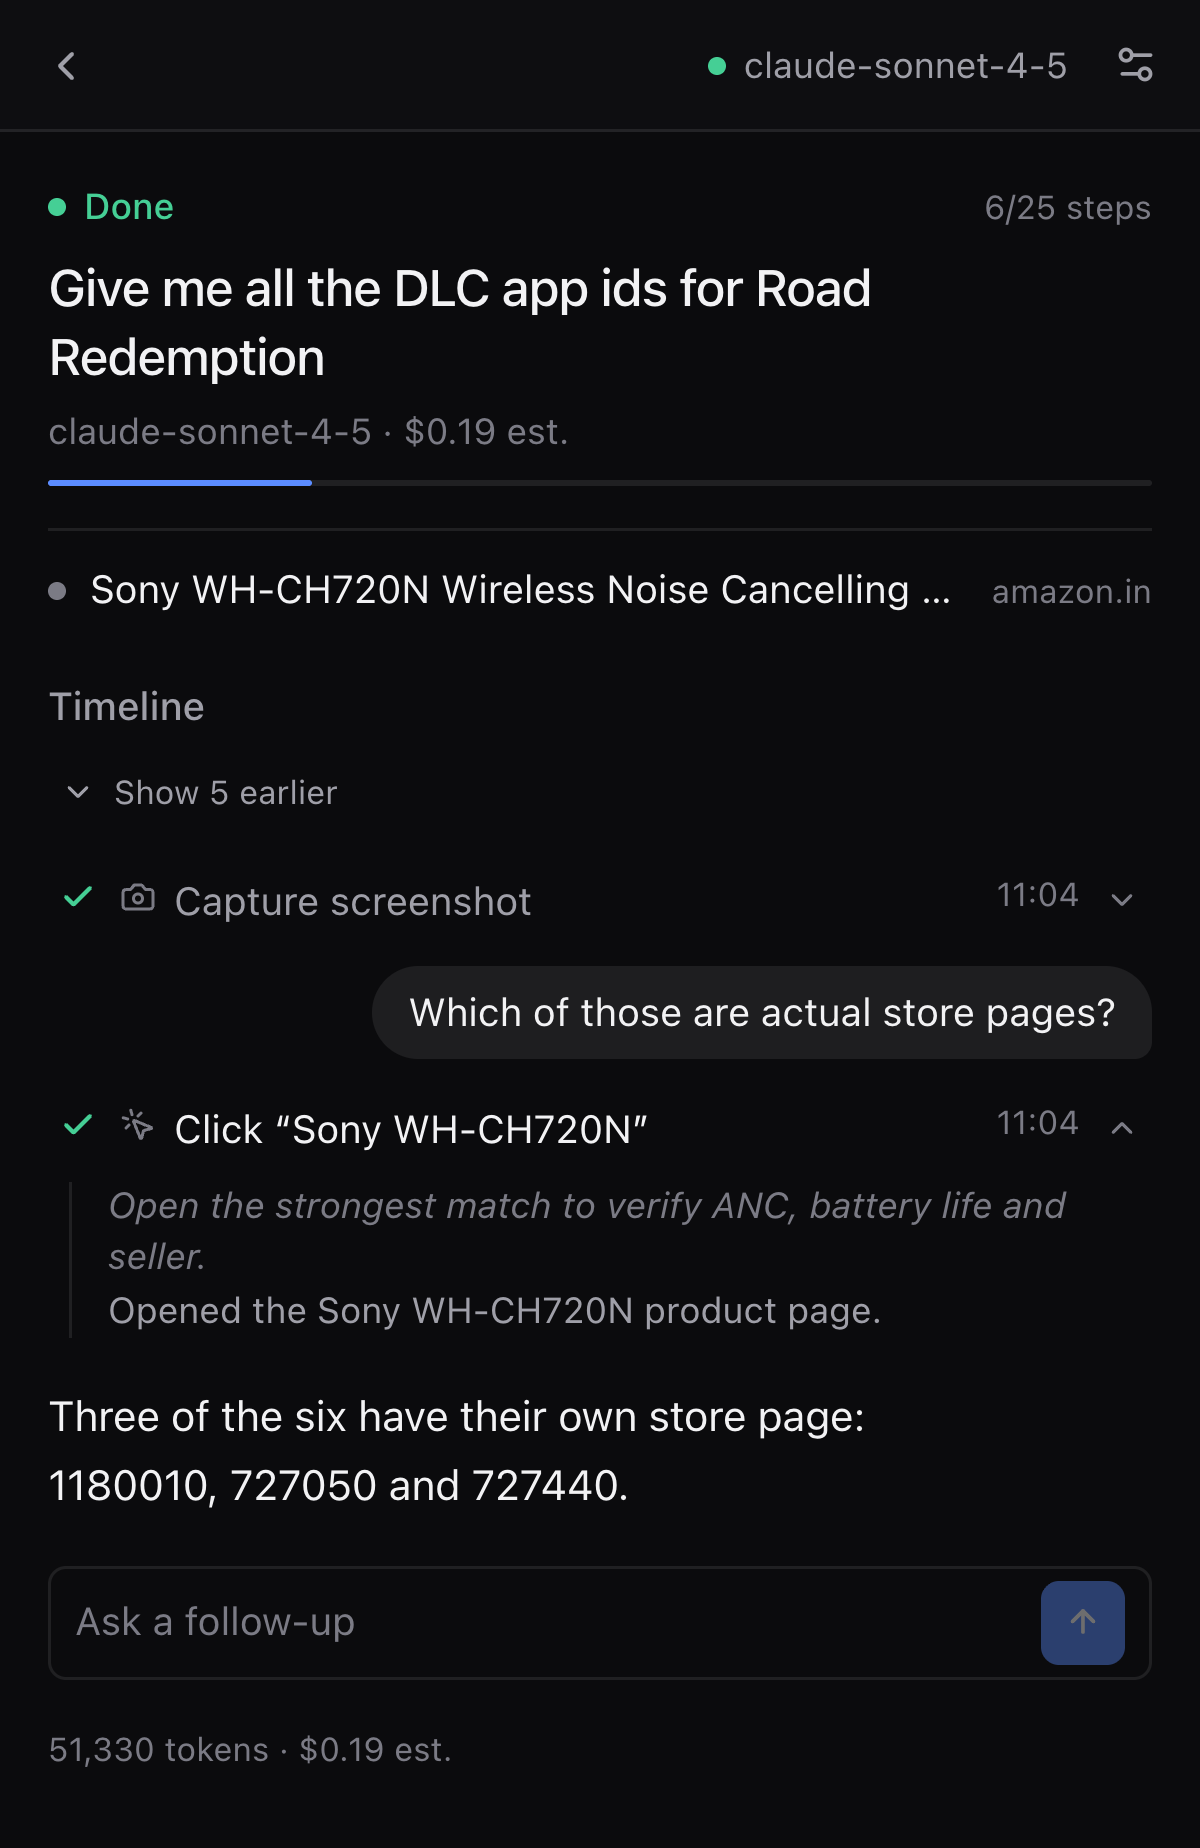
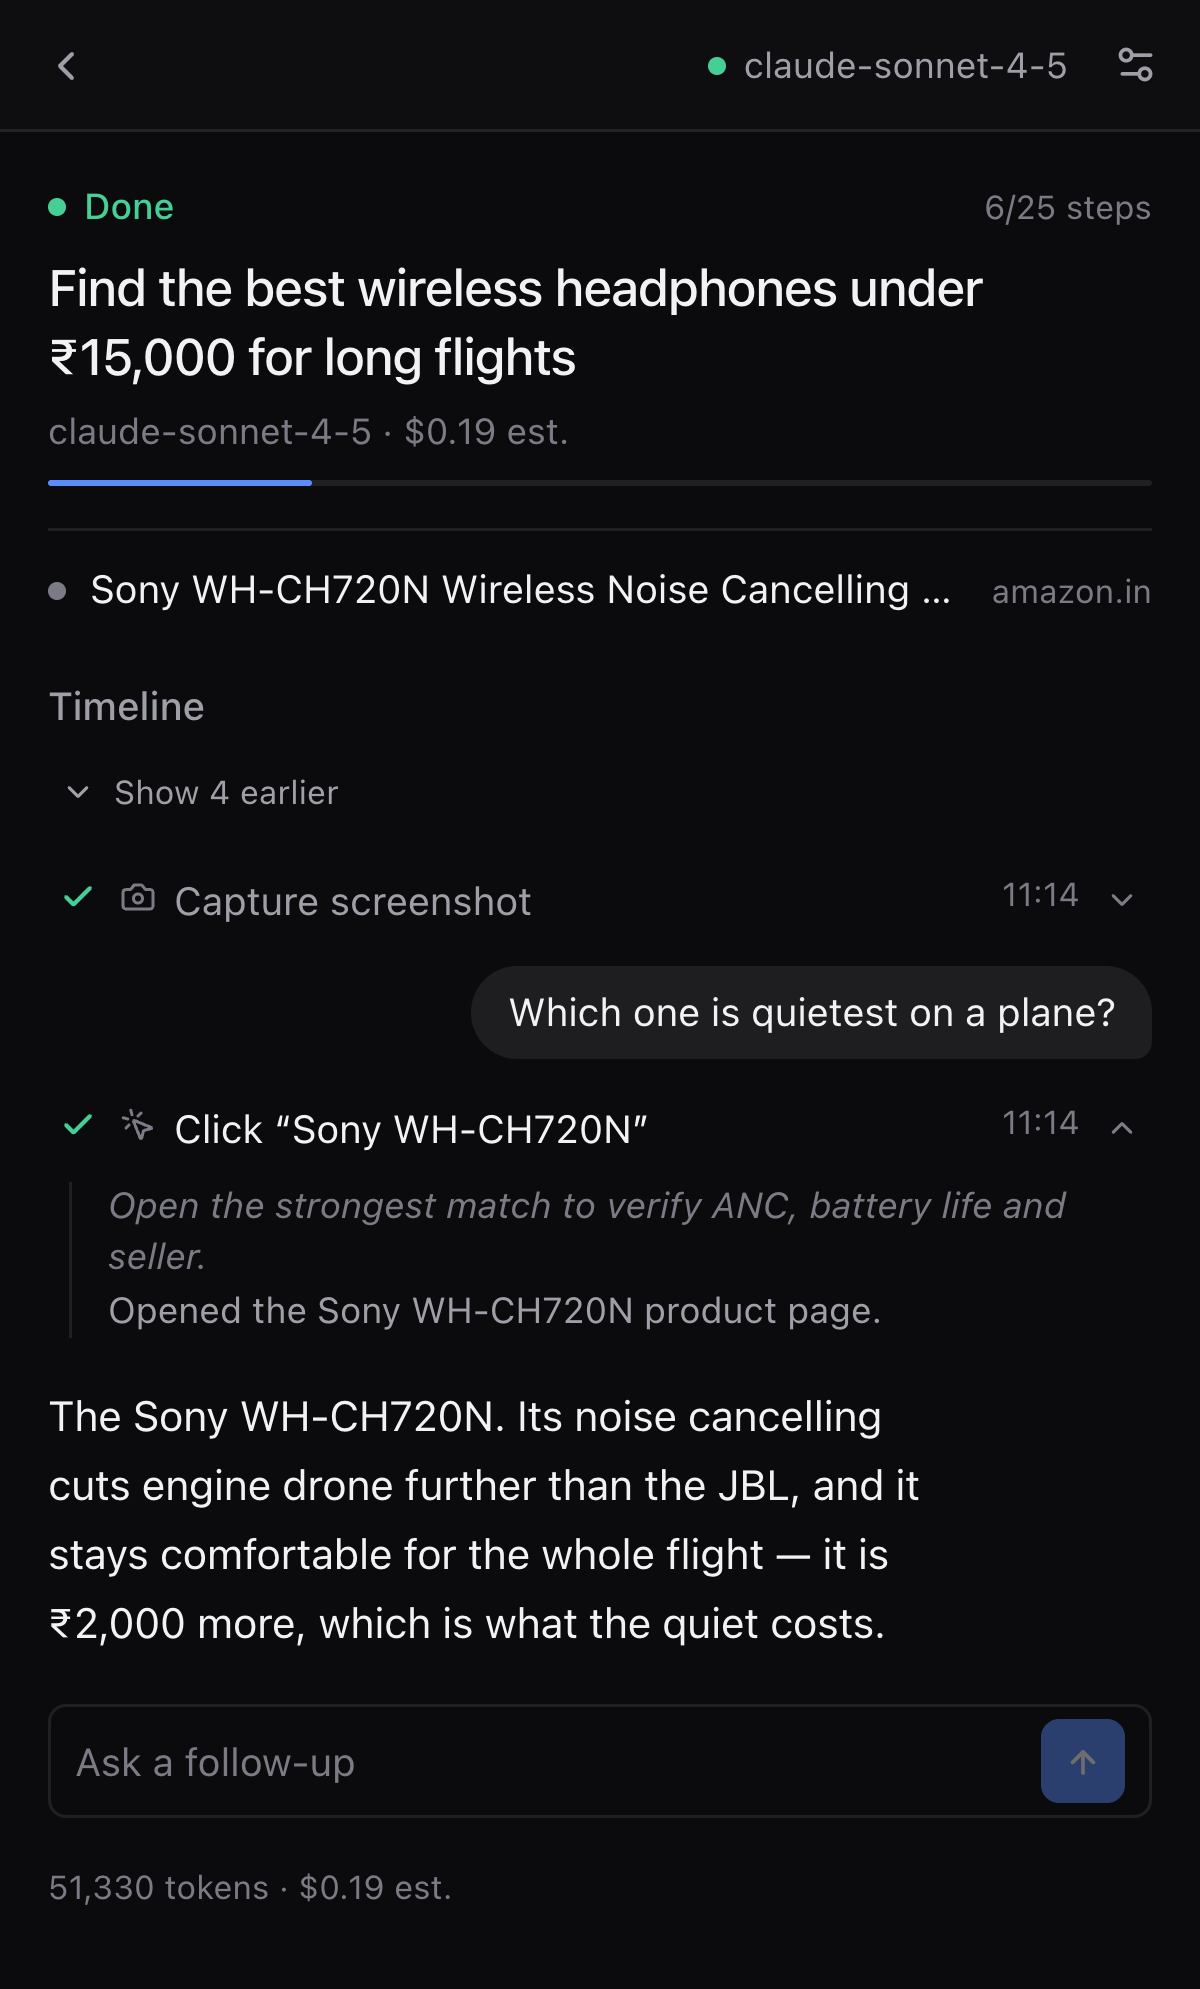
store: one story across the shots, coherent numbers
The six captures came from four unrelated demo runs, so a shot could show a
DLC objective over an Amazon headphone page with reasoning about ANC. They
are now one session: the same task asked, run, inspected, answered, compared
and bought.

Also fixes what made them look careless: the comparison table's prices and
battery hours now agree with the verdict above it and with the chart below,
the history has no failure row, and the approval buys the product the
comparison actually recommends.

diff --git a/preview/main.tsx b/preview/main.tsx
@@ -44,11 +44,12 @@ const history: TaskRecord[] = [
   {
     id: 'r2',
     objective: 'Find 20 remote product manager jobs and compile them',
-    status: 'failed',
-    stepCount: 7,
+    status: 'completed',
+    summary: 'Twenty roles, with links and salaries.',
+    stepCount: 14,
     createdAt: now - 1000 * 60 * 60 * 20,
     completedAt: now - 1000 * 60 * 60 * 19,
-    costUsd: 0.04,
+    costUsd: 0.07,
     provider: 'anthropic',
     model: 'claude-sonnet-4-5',
   },
@@ -220,9 +221,9 @@ if (demo === 'workspace') {
     approval: {
       id: 'a1',
       kind: 'sensitive',
-      title: 'Buy Sony WH-CH720N',
+      title: 'Buy the JBL Tune 770NC',
       detail:
-        'This checkout would place an order for ₹8,990 on Amazon.in using the saved address and payment method.',
+        'This checkout would place an order for ₹6,999 on Amazon.in using the saved address and the card ending 4417.',
       origin: 'https://www.amazon.in/checkout',
       actionLabel: 'Buy now',
       stepIndex: 6,
@@ -241,7 +242,7 @@ if (demo === 'workspace') {
       { turn: 5, hit: 17575, miss: 2980, attempt: 0, prefix: 't#5' },
     ],
     summary:
-      'Top five wireless headphones under ₹15,000:\n\n1. Sony WH-CH720N — ₹8,990, 4.3★, 35h battery, 192g\n2. JBL Tune 770NC — ₹6,999, 4.2★, 70h battery\n3. boAt Nirvana Ion — ₹1,499, 4.1★, 120h with case\n4. OnePlus Bullets Wireless Z2 — ₹1,799, 4.2★, 30h\n5. Noise Buds VS104 — ₹1,199, 4.0★, 45h\n\nSony leads on comfort and ANC; JBL wins on battery; boAt and Noise are the budget picks. Prices from Amazon.in today.',
+      'The JBL Tune 770NC is the one for flights: 70 hours of battery for ₹6,999, twice the Sony at ₹2,000 less. The Sony sounds better and cancels more noise, so it stays the pick if comfort matters more than price.',
   });
 } else if (demo === 'firstrun') {
   useAgentStore.setState({
@@ -272,40 +273,41 @@ if (demo === 'workspace') {
   });
 } else if (demo === 'genui') {
   seedWorkspace({
-    task: { ...task, status: 'completed', objective: 'Compare five wireless headphones under 15,000' },
+    task: { ...task, status: 'completed', objective: 'Compare five wireless headphones under ₹15,000' },
     currentAction: null,
-    summary: 'Sony leads on comfort and noise cancelling, JBL on battery. Prices from Amazon.in today.',
+    summary:
+      'The JBL Tune 770NC is the one for flights: 70 hours of battery for ₹6,999, twice the Sony at ₹2,000 less. The Sony sounds better and cancels more noise, so it stays the pick if comfort matters more than price.',
     summaryBlocks: [
       {
         type: 'table',
-        title: 'Headphones under ₹15,000',
+        title: 'Over-ear headphones under ₹15,000',
         columns: ['Model', 'Price', 'Rating', 'Battery'],
         rows: [
-          ['Sony WH-CH720N', '₹8,990', '4.3', '35 h'],
+          ['boAt Rockerz 550', '₹1,999', '3.9', '20 h'],
+          ['Noise New Era', '₹2,499', '3.8', '50 h'],
           ['JBL Tune 770NC', '₹6,999', '4.2', '70 h'],
-          ['boAt Nirvana Ion', '₹1,499', '4.1', '120 h'],
-          ['OnePlus Bullets Z2', '₹1,799', '4.2', '30 h'],
-          ['Noise Buds VS104', '₹1,199', '4.0', '45 h'],
+          ['Soundcore Space One', '₹7,499', '4.2', '40 h'],
+          ['Sony WH-CH720N', '₹8,990', '4.3', '35 h'],
         ],
       },
       {
         type: 'chart',
-        title: 'Battery life',
+        title: 'Battery on one charge',
         chart: 'bar',
         unit: ' h',
         data: [
-          { label: 'Sony', value: 35 },
+          { label: 'boAt', value: 20 },
+          { label: 'Noise', value: 50 },
           { label: 'JBL', value: 70 },
-          { label: 'boAt', value: 120 },
-          { label: 'OnePlus', value: 30 },
-          { label: 'Noise', value: 45 },
+          { label: 'Soundcore', value: 40 },
+          { label: 'Sony', value: 35 },
         ],
       },
       {
         type: 'stats',
         items: [
-          { label: 'Cheapest', value: '₹1,199', hint: 'Noise Buds VS104' },
-          { label: 'Longest battery', value: '120 h', hint: 'boAt Nirvana Ion' },
+          { label: 'Best for flights', value: '70 h', hint: 'JBL Tune 770NC · ₹6,999' },
+          { label: 'Best noise cancelling', value: '4.3 ★', hint: 'Sony WH-CH720N · ₹8,990' },
         ],
       },
     ],
@@ -348,14 +350,12 @@ if (demo === 'workspace') {
     task: {
       ...task,
       status: 'completed',
-      objective: 'Give me all the DLC app ids for Road Redemption',
-      turns: [
-        { text: 'just the ids, nothing else', at: now - 1000 * 35 },
-        { text: 'Which of those are actual store pages?', at: now - 1000 * 12 },
-      ],
+      objective: 'Find the best wireless headphones under ₹15,000 for long flights',
+      turns: [{ text: 'Which one is quietest on a plane?', at: now - 1000 * 12 }],
     },
     currentAction: null,
-    summary: 'Three of the six have their own store page: 1180010, 727050 and 727440.',
+    summary:
+      'The Sony WH-CH720N. Its noise cancelling cuts engine drone further than the JBL, and it stays comfortable for the whole flight — it is ₹2,000 more, which is what the quiet costs.',
   });
 } else if (demo === 'limit') {
   seedWorkspace({

diff --git a/store/raw/COPY.md b/store/raw/COPY.md
@@ -1,39 +1,52 @@
 # Screenshot copy
 
-Six captures, 1200 px wide (3× of a 400 px panel), trimmed to their content, no
-chrome and no text baked in. Opaque PNG on the panel's own background
-`#0B0D12`, so they drop onto any dark backdrop without a halo.
+Six captures, 1200 px wide (3× a 400 px panel), trimmed to content, no chrome,
+no backdrop, no baked text. Opaque PNG on the panel background `#0B0D12`, so they
+drop onto any dark backdrop without a light halo.
 
-Order matters: 01 sells the idea, 02–04 sell the transparency, 05 sells the
-answer quality, 06 sells the trust. If you only take four, take 01, 03, 05, 06.
+They are one story, not six screens: the same task — **find the best wireless
+headphones under ₹15,000 for long flights** — asked, run, inspected, answered,
+compared, then bought. Keep them in order and the set reads as a session.
 
-| # | File | Headline | Sub |
-|---|------|----------|-----|
-| 1 | `01-home.png` | **Say what you need.** | A browser agent in your side panel. It does the clicking; you keep your tab. |
-| 2 | `02-running.png` | **It works on the page, not on a server.** | Every action happens in the tab you are looking at. Pause or stop it mid-run. |
-| 3 | `03-step-open.png` | **Ask why it clicked that.** | Open any step: the reasoning, the result and the screenshot are all there. |
-| 4 | `04-answer.png` | **The answer comes first.** | One to three sentences at the top. Twenty steps stay folded underneath. |
-| 5 | `05-rich-answer.png` | **Comparisons you can actually read.** | Ask for five options and get a table, a chart and the numbers that matter. |
-| 6 | `06-approval.png` | **It asks before it spends.** | Checkout, submit, delete — anything that matters stops and waits for you. |
+| # | File | Px (CSS) | Headline | Sub |
+|---|------|----------|----------|-----|
+| 1 | `01-home.png` | 400×634 | **Say what you need.** | A browser agent in your side panel. No account, no server, your own key. |
+| 2 | `02-running.png` | 400×555 | **It works on the page, not on a server.** | Every click happens in the tab you are watching. Pause or stop it mid-run. |
+| 3 | `03-step-open.png` | 400×663 | **Ask why it clicked that.** | Open any step: the reasoning, the result and the screenshot are all there. |
+| 4 | `04-answer.png` | 400×609 | **The answer comes first.** | A verdict in the first sentence, and follow-ups stay in the same thread. |
+| 5 | `05-rich-answer.png` | 400×1081 | **Comparisons you can actually read.** | Ask for five options and get a table, a chart and the numbers behind them. |
+| 6 | `06-approval.png` | 400×700 | **It asks before it spends.** | Checkout, submit, delete — anything that matters stops and waits for you. |
 
-Alt lines, if a slide needs a second sentence:
+If you only build four slides: **1, 3, 5, 6**. They are the ask, the
+transparency, the payoff and the trust.
 
-- 01 — "No account, no server, no telemetry. Your key, your browser."
-- 02 — "Each row is one action: what it did, on which site, and when."
-- 03 — "Reasoning is the model's own; the result is what the page actually returned."
-- 04 — "Follow-ups stay in the same thread, with the earlier steps still attached."
-- 05 — "Tables sort. Charts come from the values it found, not from a guess."
-- 06 — "Approvals show the exact action, the price and the site before anything happens."
+Alt lines when a slide wants a second sentence:
 
-## Design notes
+- 1 — "It reads the page you are on, so it can act on what you see."
+- 2 — "Each row is one action: what it did, on which site, at what time."
+- 3 — "The reasoning is the model's own; the result is what the page returned."
+- 4 — "Twenty steps stay folded above the answer, not spread through it."
+- 5 — "Tables sort. Charts come from the values it found, not from a guess."
+- 6 — "The approval names the action, the price and the site before anything happens."
 
-- Background: `#0B0D12` matches the panel, so the screenshot edge disappears.
-  A slightly lighter `#101319` also works and gives the panel a soft edge.
-- Accent for numerals or rules: `#5A9BFF`. Success `#22C55E`, warning `#E0A106`.
-- Type: the app uses SF Pro / Inter. For slide text stay on one sans, 700 for the
-  headline and 400–500 for the sub. Sentence case throughout — no tracked caps.
-- Crops that work: 03 and 06 at natural height; 05 is the tallest, so crop to the
-  table if the chart does not fit; 02 is short, so give it more backdrop than
-  image and let the text carry it.
-- The product is dark and full-bleed; a bright or busy backdrop will fight it.
-  Near-black, or a very soft radial glow behind the panel, is the safe lane.
+## Fitting them to 1280×800
+
+These are portrait crops of a 400 px panel, so no two share a height. Place each
+at the height it needs rather than matching them:
+
+- **2, 4, 6** scale up well to about 620–700 px tall on a slide and leave room
+  for text on the left.
+- **1** works at ~600 px, centred or right, with the greeting carrying it.
+- **3** at ~660 px, right side, headline left.
+- **5** is 1081 px tall and will not fit beside text. Either give it the full
+  slide with the headline above, or crop it from the verdict (the sentence
+  "The JBL Tune 770NC is the one for flights…") down to the two stat tiles —
+  about 400×760 — and drop the timeline above it.
+
+## Palette
+
+The panel is `#0B0D12`. Accent `#5A9BFF`, success `#22C55E`, warning `#E0A106`.
+A backdrop a shade lighter than the panel (`#101319`) gives the screenshot a
+soft edge; brighter than that and the panel edge reads as a hard rectangle.
+One sans for slide type, 700 headline / 400–500 sub, sentence case, no tracked
+capitals.
